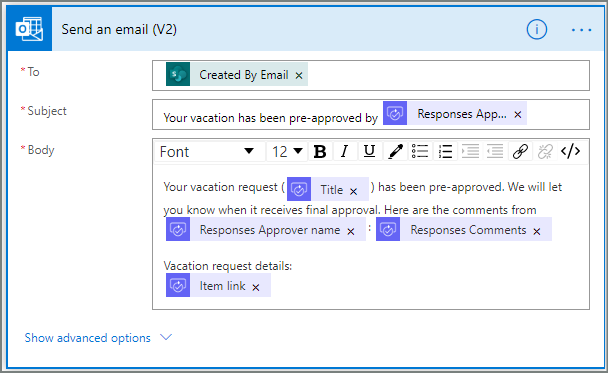
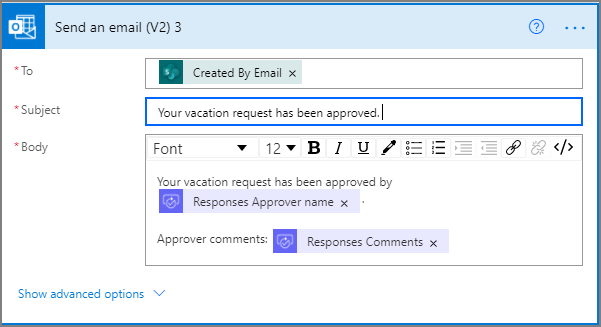
fixing screenshot and link

Changed region(s): [[0.0, 0.0, 1.0, 1.0]]

diff --git a/articles/modern-approvals.md b/articles/modern-approvals.md
@@ -102,7 +102,7 @@ Follow these steps to send an email if the vacation request is approved:
 
 [!INCLUDE [add-action-to-send-email-when-vacation-approved](includes/add-action-to-send-email-when-vacation-approved.md)]
 
-   ![configure approved email template](./media/sequential-modern-approvals/yes-email-config.png)
+   ![configure approved email template](./media/modern-approvals/yes-email-config.png)
 
 ## Add an update action for approved requests
 
